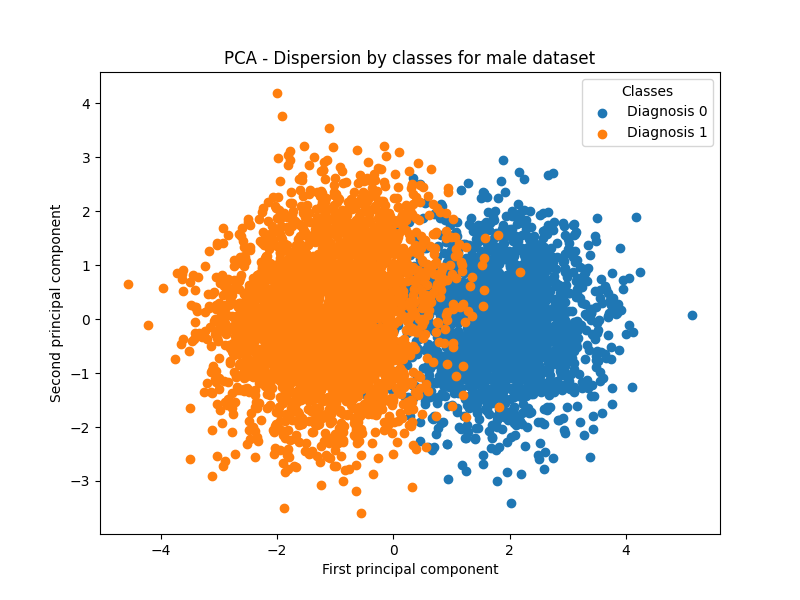
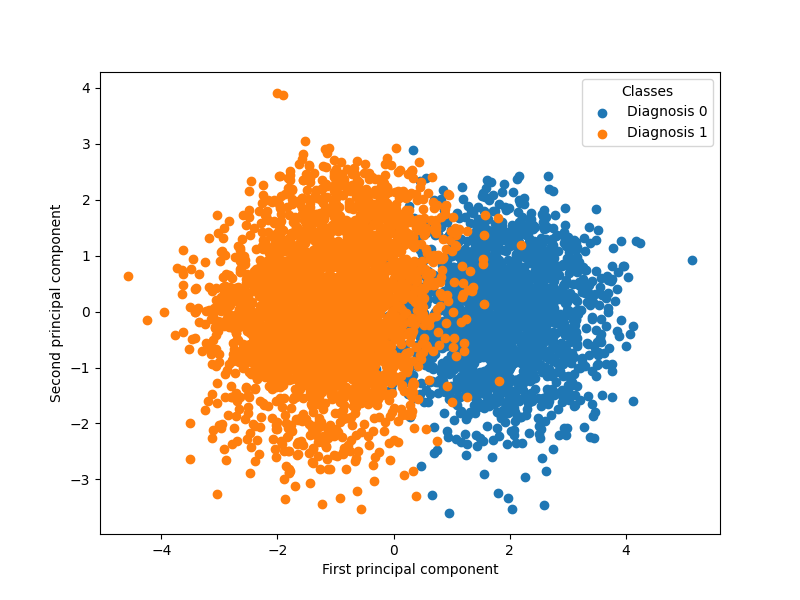
Little changes

diff --git a/IntersectionalBias/ECoL/graphics_PCA.py b/IntersectionalBias/ECoL/graphics_PCA.py
@@ -6,7 +6,7 @@ import matplotlib.pyplot as plt
 from sklearn.decomposition import PCA
 from sklearn.preprocessing import StandardScaler
 
-DATASET = 'female'
+DATASET = 'male'
 
 def createGraphic2D(feature_columns_scaled, target_column):
     pca = PCA(n_components=2)  # Reduce to 2 dimensions
@@ -27,7 +27,7 @@ def createGraphic2D(feature_columns_scaled, target_column):
 
     plt.xlabel("First principal component")
     plt.ylabel("Second principal component")
-    #plt.title(f"PCA - Dispersion by classes for {DATASET} dataset")
+    plt.title(f"PCA - Dispersion by classes for {DATASET} dataset")
     plt.savefig(f'graphics/graphics_PCA/PCA(2D)-{DATASET}.png')  
 
 

diff --git a/IntersectionalBias/ECoL/graphics_diff.py b/IntersectionalBias/ECoL/graphics_diff.py
@@ -25,7 +25,7 @@ def create():
     # Set y-axis limits
     plt.ylim(-0.15, 0.3)
 
-    #plt.title(TITLE)
+    plt.title(TITLE)
     plt.xlabel('Complexity Measure')
     plt.ylabel('Value')
     plt.xticks(rotation=45)  
